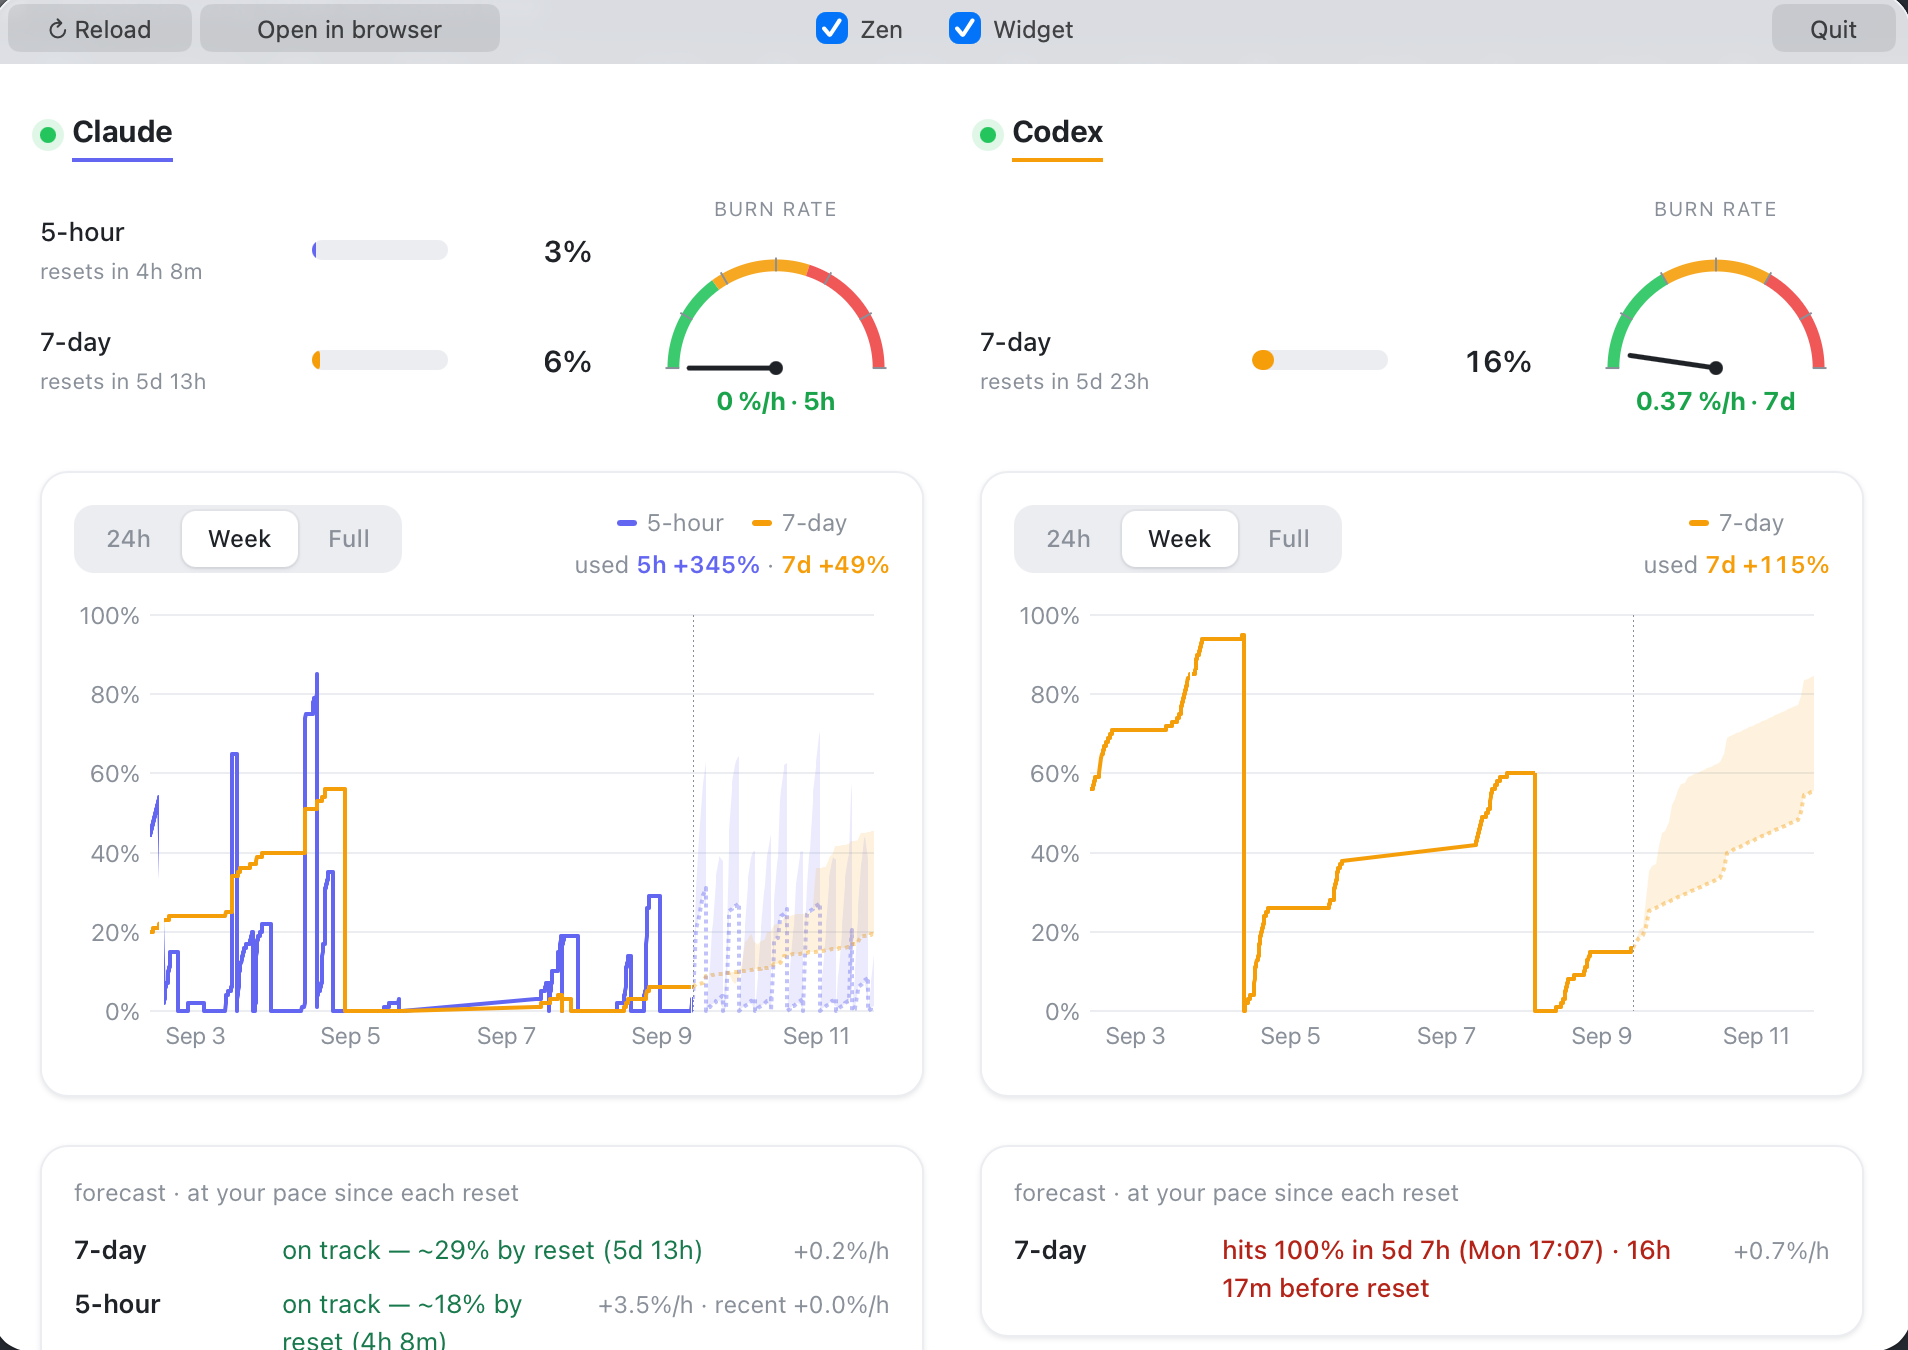
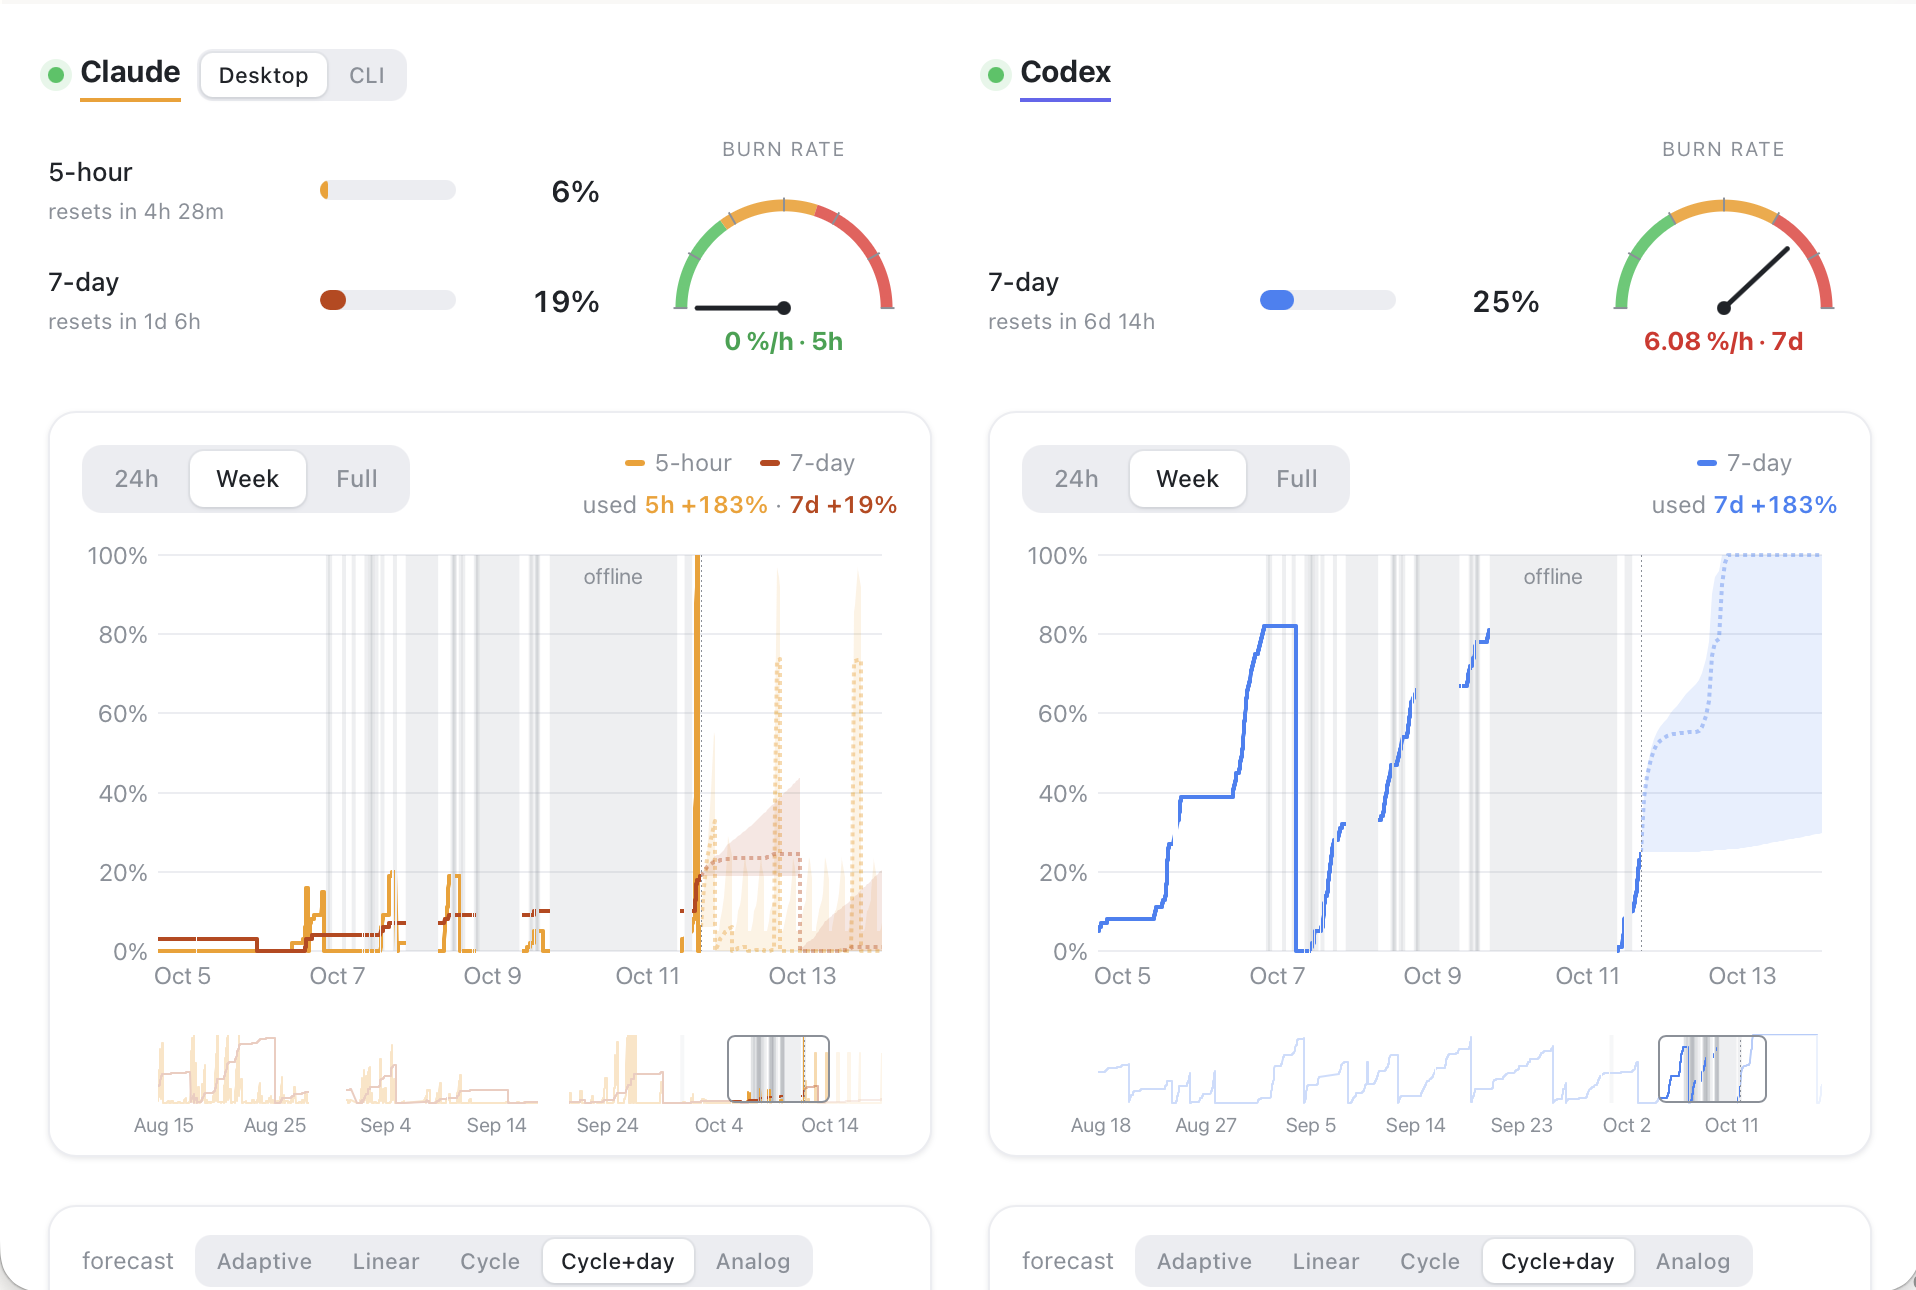
README: new dashboard screenshot
Shows the overview strip and offline shading from v0.19/v0.20.

diff --git a/README.md b/README.md
@@ -1,6 +1,6 @@
 # claude-usage
 
-<img alt="claude-usage dashboard — live Claude and Codex usage, burn-rate gauges, weekly history with forecast cones, and the Zen and Widget toggles" src="assets/dashboard.png" />
+<img alt="claude-usage dashboard — live Claude and Codex usage, burn-rate gauges, a week of history with forecast cones and offline stretches shaded, and the overview strip for panning through all history" src="assets/dashboard.png" />
 
 ## 🤖 Give this to your agent
 
